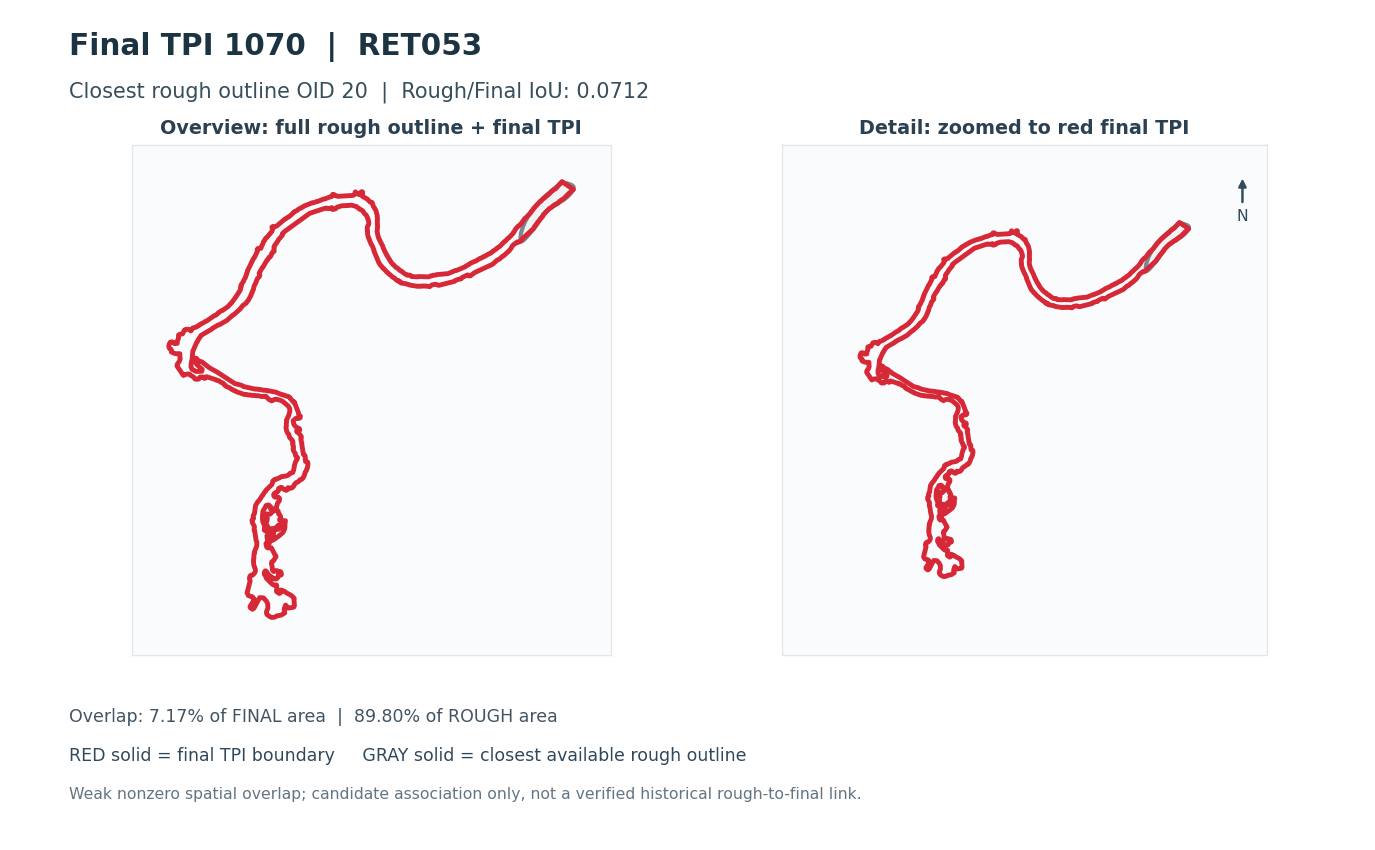
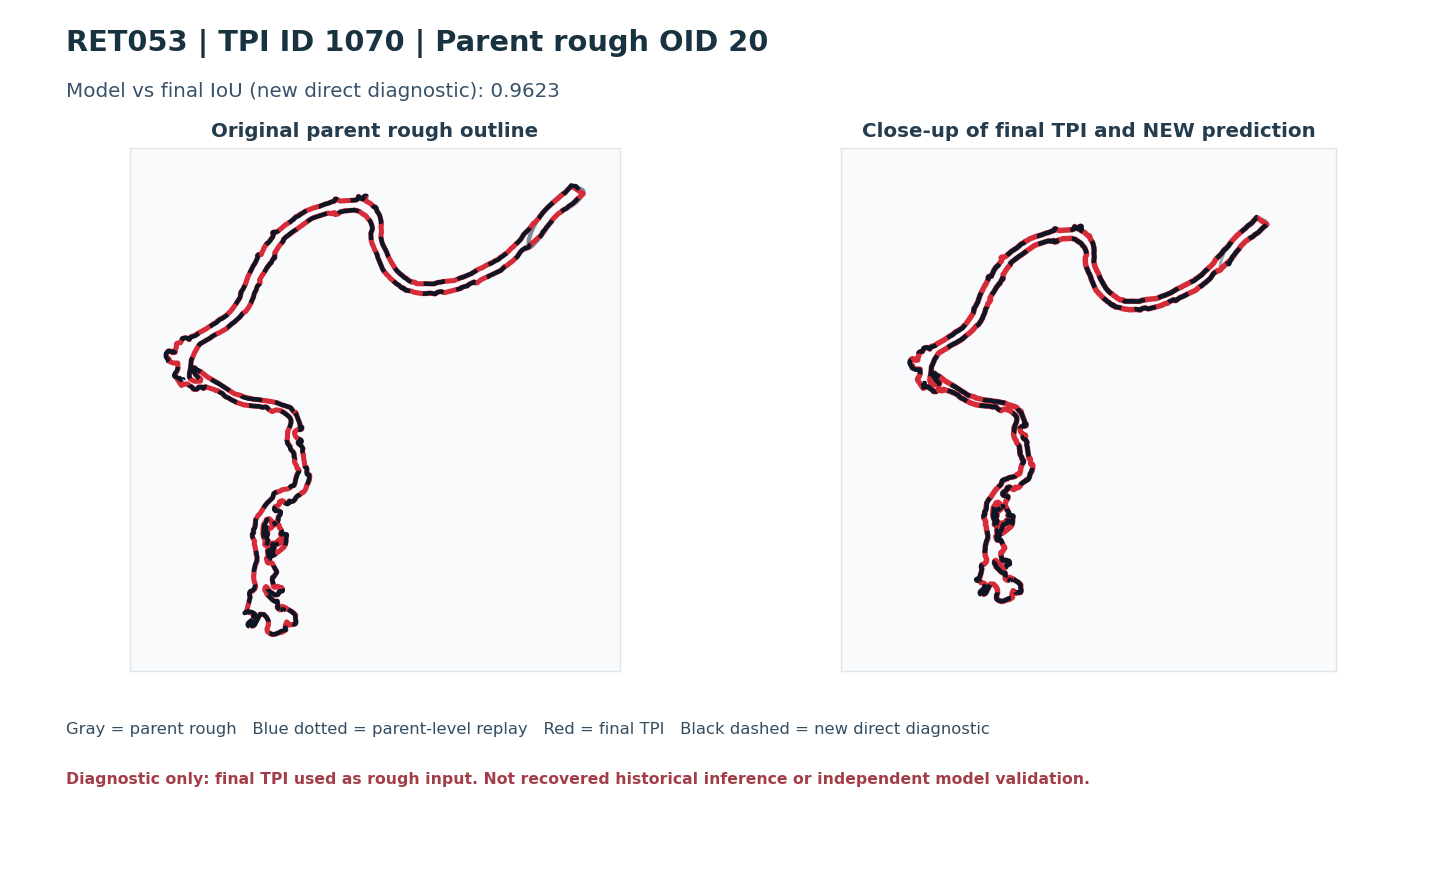
Fix RET053 and RET054 thumbnails with new direct diagnostic predictions

diff --git a/docs/ret53-ret54-diagnostics/index.html b/docs/ret53-ret54-diagnostics/index.html
@@ -1,0 +1,1 @@
+<!doctype html><html><head><meta charset="UTF-8"><meta name="viewport" content="width=device-width,initial-scale=1"><title>RET053 RET054 corrected prediction comparisons</title><style>body{margin:0;background:#f4f7f9;color:#1c3445;font:16px system-ui;max-width:1200px;padding:24px}a{color:#096f88}figure{background:white;border:1px solid #ddd;padding:15px;border-radius:12px;margin:24px 0}img{width:100%}figcaption{padding:8px}</style></head><body><a href="../weak36-gallery/">← All 36 split comparisons</a><h1>RET053 and RET054 — corrected prediction comparisons</h1><p><strong>Red</strong> final TPI · <strong>Black dashed</strong> new direct diagnostic prediction · <strong>Gray</strong> original parent rough · <strong>Blue dotted</strong> parent-level 702 replay. These direct predictions used the final polygon as the model input and are not independent validation.</p><figure><a href="thumbnails/ret1070_diagnostic.png"><img src="thumbnails/ret1070_diagnostic.png" alt="RET053"></a><figcaption><b>RET053</b> · TPI 1070 · direct diagnostic IoU 0.9623 · click to enlarge</figcaption></figure><figure><a href="thumbnails/ret1071_diagnostic.png"><img src="thumbnails/ret1071_diagnostic.png" alt="RET054"></a><figcaption><b>RET054</b> · TPI 1071 · direct diagnostic IoU 0.9495 · click to enlarge</figcaption></figure></body></html>
